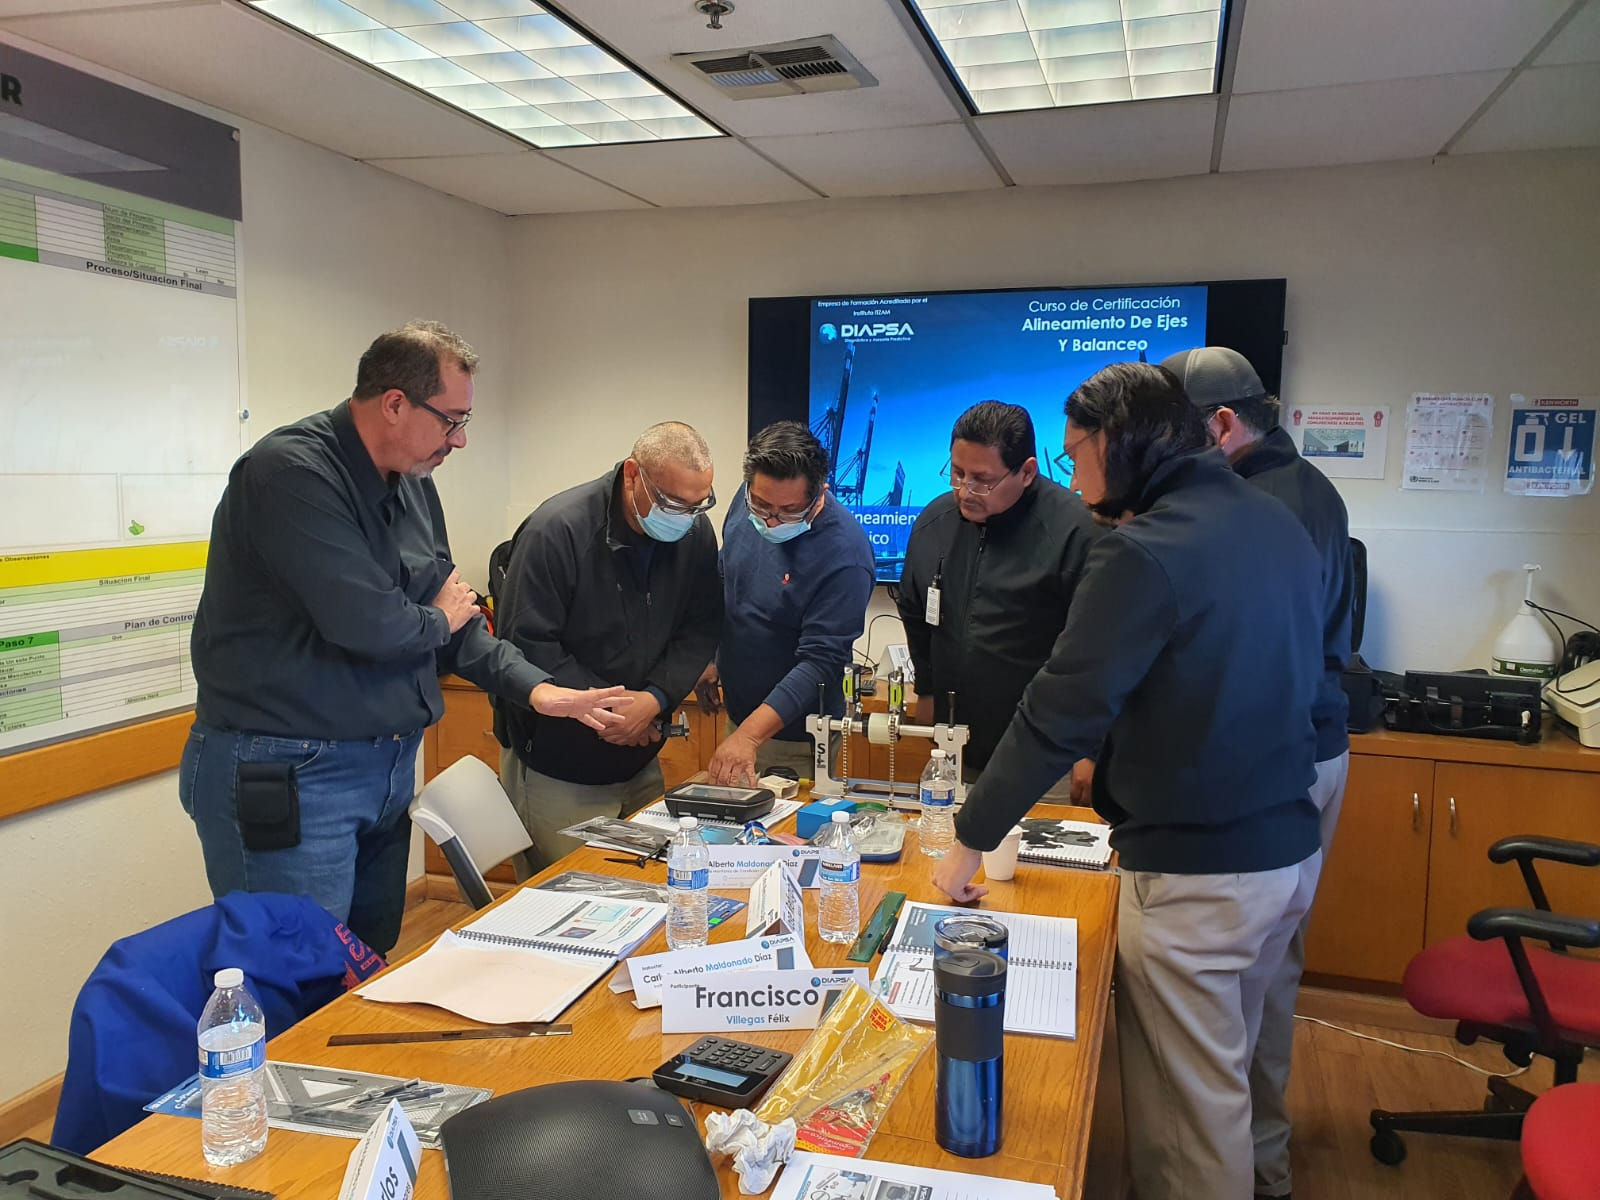
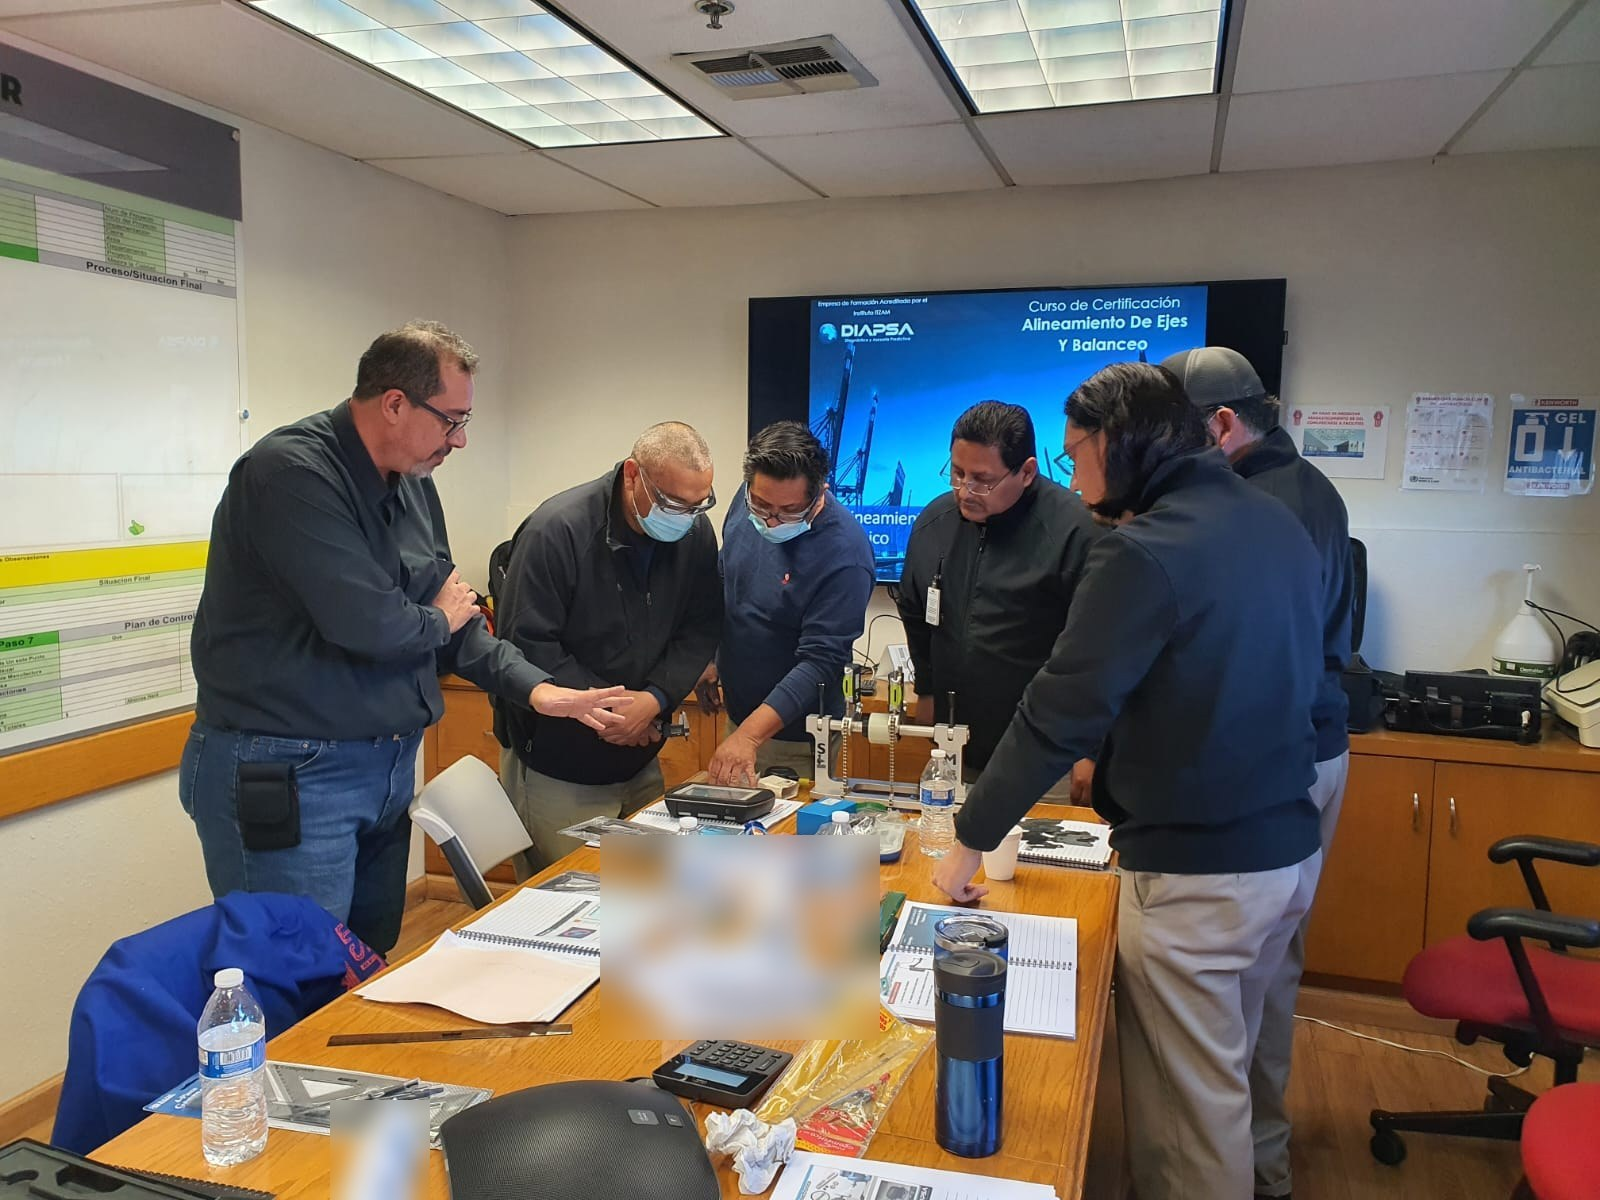
Inicio: ventana emergente del webinar de Herramientas Predictivas del 6 de octubre; nombres difuminados en la foto de la capacitación

Changed region(s): [[0.375, 0.6783, 0.5625, 0.8942], [0.1875, 0.8942, 0.2812, 1.0]]

diff --git a/components/organisms/AvisoWebinar.tsx b/components/organisms/AvisoWebinar.tsx
@@ -1,0 +1,90 @@
+"use client";
+
+import { useEffect, useState } from "react";
+import Image from "next/image";
+import Link from "next/link";
+import Modal from "@/components/atoms/Modal";
+
+/**
+ * AvisoWebinar
+ * Ventana emergente en la página de inicio que anuncia el webinar de
+ * Herramientas Predictivas del 6 de octubre de 2026 (Emiliano, 2026-09-30).
+ * Aparece a los pocos segundos, no interrumpe la carga, y una vez cerrada no
+ * vuelve a salir en ese navegador. Deja de mostrarse sola cuando el webinar
+ * termina, así que no hace falta quitarla a mano al día siguiente.
+ */
+
+const CLAVE = "aviso-webinar-2026-10-06";
+// 6 de octubre de 2026, 12:30 p.m. hora del centro de México (UTC-6)
+const FIN = Date.parse("2026-10-06T18:30:00Z");
+const RETRASO = 4000;
+
+export default function AvisoWebinar() {
+    const [abierto, setAbierto] = useState(false);
+
+    useEffect(() => {
+        if (Date.now() > FIN) return;
+        try {
+            if (window.localStorage.getItem(CLAVE)) return;
+        } catch {
+            // sin acceso al almacenamiento: se muestra igual
+        }
+        const id = window.setTimeout(() => setAbierto(true), RETRASO);
+        return () => window.clearTimeout(id);
+    }, []);
+
+    const cerrar = () => {
+        setAbierto(false);
+        try {
+            window.localStorage.setItem(CLAVE, "1");
+        } catch {
+            // no pasa nada si no se puede guardar
+        }
+    };
+
+    return (
+        <Modal isOpen={abierto} onClose={cerrar} className="w-[calc(100%-2rem)] max-w-lg">
+            <div className="relative aspect-[16/9] w-full">
+                <Image
+                    src="/images/gallery/capacitacion-img-2.jpg"
+                    alt="Sesión de capacitación de Grupo DIAPSA"
+                    fill
+                    sizes="(max-width: 640px) 100vw, 512px"
+                    className="object-cover"
+                />
+                <div className="absolute inset-0 bg-primary/55" />
+                <div className="absolute inset-0 flex flex-col justify-end p-6">
+                    <span className="inline-flex w-fit items-center rounded-full bg-secondary px-3 py-1 text-xs font-bold uppercase tracking-widest text-primary">
+                        Webinar gratuito
+                    </span>
+                    <p className="mt-2 text-2xl font-extrabold leading-tight text-white drop-shadow sm:text-3xl">
+                        Herramientas Predictivas
+                    </p>
+                </div>
+            </div>
+            <div className="p-6 text-primary">
+                <p className="text-lg font-bold">Martes 6 de octubre · 11:00 a.m.</p>
+                <p className="text-sm text-tertiary">Hora del centro de México · en línea · 60 minutos más preguntas</p>
+                <p className="mt-4 text-base leading-relaxed text-tertiary text-justify">
+                    Qué herramienta predictiva conviene en cada equipo de tu planta y cómo interpretar lo que te dice. Sin costo.
+                </p>
+                <div className="mt-6 flex flex-col gap-3 sm:flex-row">
+                    <Link
+                        href="/webinar"
+                        onClick={cerrar}
+                        className="inline-flex flex-1 items-center justify-center rounded-xs bg-primary px-6 py-3 font-bold text-white transition-colors duration-300 hover:bg-secondary hover:text-primary"
+                    >
+                        Quiero registrarme
+                    </Link>
+                    <a
+                        href="/webinar-herramientas-predictivas.ics"
+                        download
+                        className="inline-flex flex-1 items-center justify-center rounded-xs border-2 border-primary px-6 py-2.5 font-bold text-primary transition-colors duration-300 hover:bg-primary hover:text-white"
+                    >
+                        Agregar a mi calendario
+                    </a>
+                </div>
+            </div>
+        </Modal>
+    );
+}

diff --git a/app/page.tsx b/app/page.tsx
@@ -14,6 +14,7 @@ import LoQueRecibes from "@/components/organisms/LoQueRecibes";
 import InicioDiplomado from "@/components/organisms/InicioDiplomado";
 import InicioBlog from "@/components/organisms/InicioBlog";
 import ContactForm from "@/components/organisms/ContactForm";
+import AvisoWebinar from "@/components/organisms/AvisoWebinar";
 import galeriaMonitoreo from "@/data/monitoreo-condicion-galeria.json";
 import { getBlogs, getFeaturedSuccessCases } from "@/lib/api/posts";
 import { getProducts } from "@/lib/api/products";
@@ -103,6 +104,8 @@ export default async function Home() {
       {/* El Hero queda fuera de Reveal a propósito: animar lo que ya está
           visible al cargar retrasa la primera impresión y penaliza el LCP. */}
       <Hero />
+      {/* Ventana emergente del webinar del 6 de octubre; se apaga sola al terminar. */}
+      <AvisoWebinar />
 
       {/* Quiénes somos y todos los servicios a la vista */}
       <Reveal><QuienesSomos /></Reveal>
